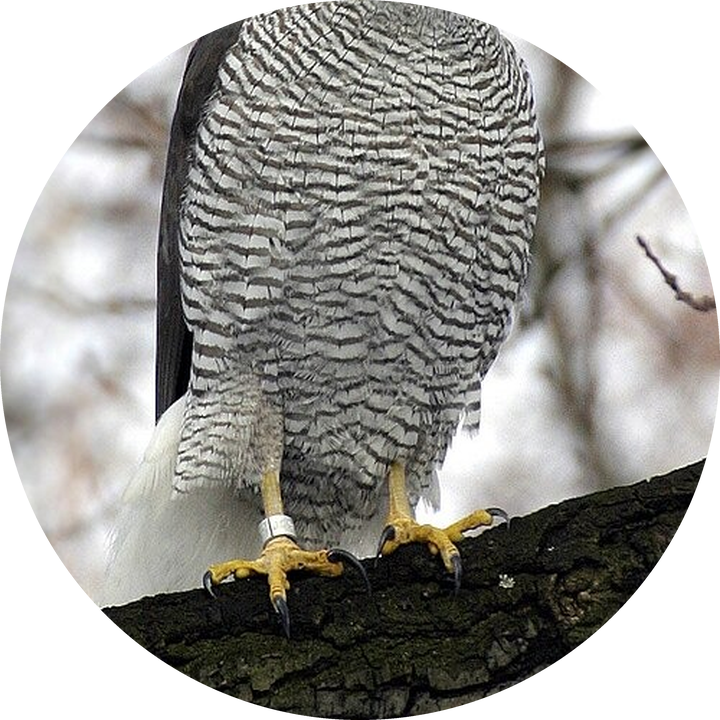
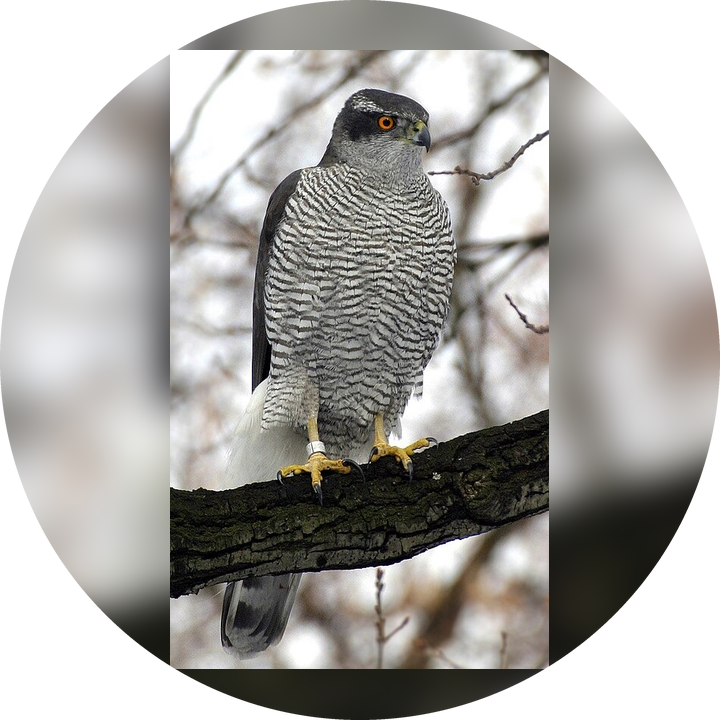
video_studio: fit-mode stickers so statues/monuments/birds aren't cut; no-crop rule
Claude-Session: https://claude.ai/code/session_01WuJhQtRtpYwPn7mKxp3LiJ

diff --git a/video_studio/engine/commons.py b/video_studio/engine/commons.py
@@ -81,12 +81,26 @@ def candidates(query, key, limit=8):
     return res
 
 
-def pick(key, n, crop=None, out_name=None):
+def pick(key, n, crop=None, out_name=None, fit=False):
     """Make a round photo sticker from candidate n. crop = (cx, cy, size) as fractions of the image."""
     from PIL import Image, ImageDraw
     d = os.path.join(ROOT, "output", "commons", key)
     meta = json.load(open(os.path.join(d, "meta.json")))[n]
     im = Image.open(meta["file"]).convert("RGB")
+    if fit:
+        # show the WHOLE photo (statues, monuments, people): blurred fill behind, full image inside the circle
+        from PIL import ImageFilter
+        S = 720
+        bg = im.copy()
+        side = min(bg.size)
+        bg = bg.crop(((bg.width - side) // 2, (bg.height - side) // 2, (bg.width - side) // 2 + side,
+                      (bg.height - side) // 2 + side)).resize((S, S), Image.LANCZOS)
+        bg = bg.filter(ImageFilter.GaussianBlur(18))
+        inner = int(S * 0.86)          # keep corners of the photo inside the round mask
+        fg = im.copy()
+        fg.thumbnail((inner, inner), Image.LANCZOS)
+        bg.paste(fg, ((S - fg.width) // 2, (S - fg.height) // 2))
+        im = bg
     w, h = im.size
     cx, cy, s = crop or (0.5, 0.5, 1.0)
     side = int(min(w, h) * s)
